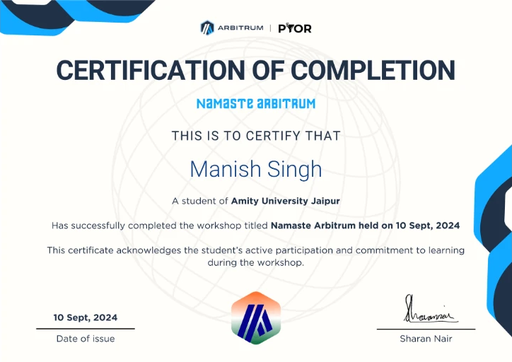
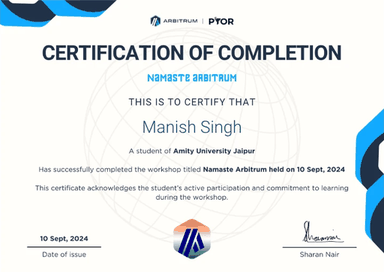
Trim certificate art, fit three tiles a row on phones, add a skip link
Certificate images were stored at 512px but never display above ~153
CSS px; re-encoding at 384 with palette quantisation on the opaque ones
cuts the set from 1138KB to 732KB with no visible loss at 2x. The three
PentesterLab badges are left alone, since flat vector art re-encoded
larger rather than smaller.

On phones the 100px program tiles only fit two to a row, making the 27
entry tab a very long scroll; tighter tiles and panel padding fit three.

Both pages now open with a skip link to a #main anchor.

diff --git a/assets/css/site.css b/assets/css/site.css
@@ -1067,6 +1067,17 @@ html[data-theme="dark"] .pcard-mark { opacity: .22; }
 }
 .secured-tabs .catbtn.on b { opacity: .75; }
 
+/* On a phone the 100px tiles only fit two to a row, which turned a 27
+   program tab into a very long scroll. Tightening the tile and the panel
+   padding fits three, cutting the list height by a third. */
+@media (max-width: 520px) {
+  .panel { padding: 22px 18px; }
+  .secured { gap: 14px; min-height: 0; }
+  .secured-item { width: 88px; }
+  .secured-mark { width: 64px; height: 64px; border-radius: 14px; margin-bottom: 9px; }
+  .secured-name { font-size: 11px; }
+}
+
 
 /* ===========================================================
    Ethereum backdrop
@@ -1194,6 +1205,17 @@ a.n:hover { color: var(--text); }
   content: ""; position: absolute; left: 0; top: 12px;
   width: 5px; height: 5px; border-radius: 50%; background: var(--accent);
 }
+
+/* ---------- skip link ---------- */
+/* off screen until focused, so keyboard users can jump the nav */
+.skip {
+  position: absolute; left: 12px; top: -60px; z-index: 100;
+  padding: 10px 16px; border-radius: 0 0 10px 10px;
+  background: var(--accent); color: #06110c;
+  font-size: 13.5px; font-weight: 700; text-decoration: none;
+  transition: top .18s ease;
+}
+.skip:focus { top: 0; }
 
 /* ---------- certifications ---------- */
 .hx-certs { padding: 76px 0 0; }

diff --git a/index.html b/index.html
@@ -28,6 +28,8 @@
 </head>
 <body>
 
+<a class="skip" href="#main">Skip to content</a>
+
 <nav class="nav">
   <div class="nav-inner">
     <a class="brand" href="/">M1S0</a>
@@ -39,7 +41,7 @@
 </nav>
 
 <!-- ============ PROFILE BANNER ============ -->
-<div class="wide pb-outer">
+<div class="wide pb-outer" id="main">
   <div class="pb" id="banner">
   </div>
   <div class="pb-row" id="pb-row"></div>

diff --git a/writeups/index.html b/writeups/index.html
@@ -26,6 +26,8 @@
 </head>
 <body>
 
+<a class="skip" href="#main">Skip to content</a>
+
 <nav class="nav">
   <div class="nav-inner">
     <a class="brand" href="/">M1S0</a>
@@ -36,7 +38,7 @@
   </div>
 </nav>
 
-<div class="wrap">
+<div class="wrap" id="main">
 
   <header class="page-head">
     <h1>Writeups</h1>
